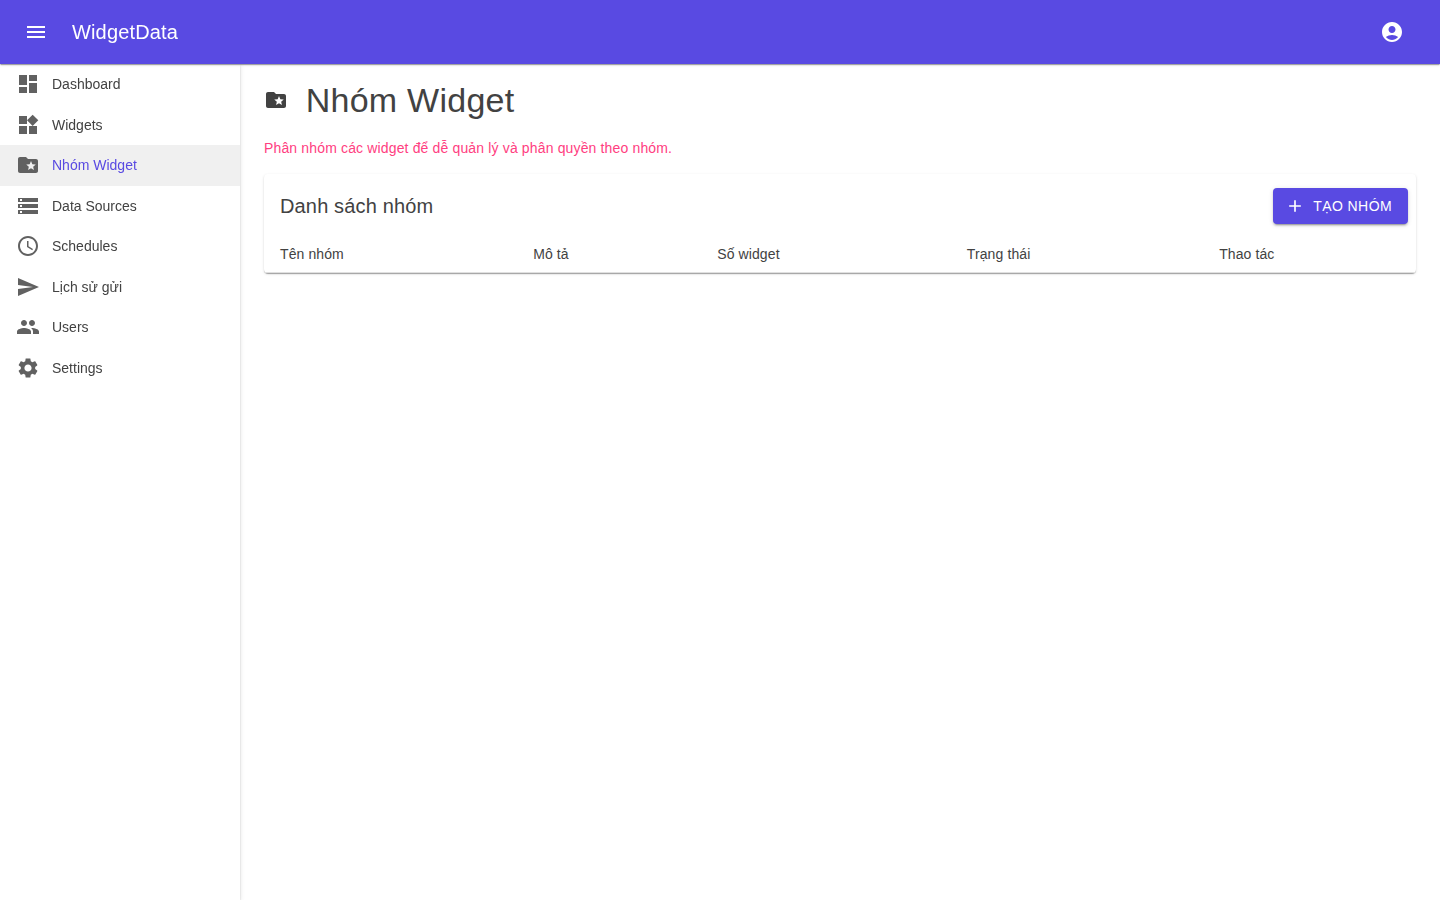
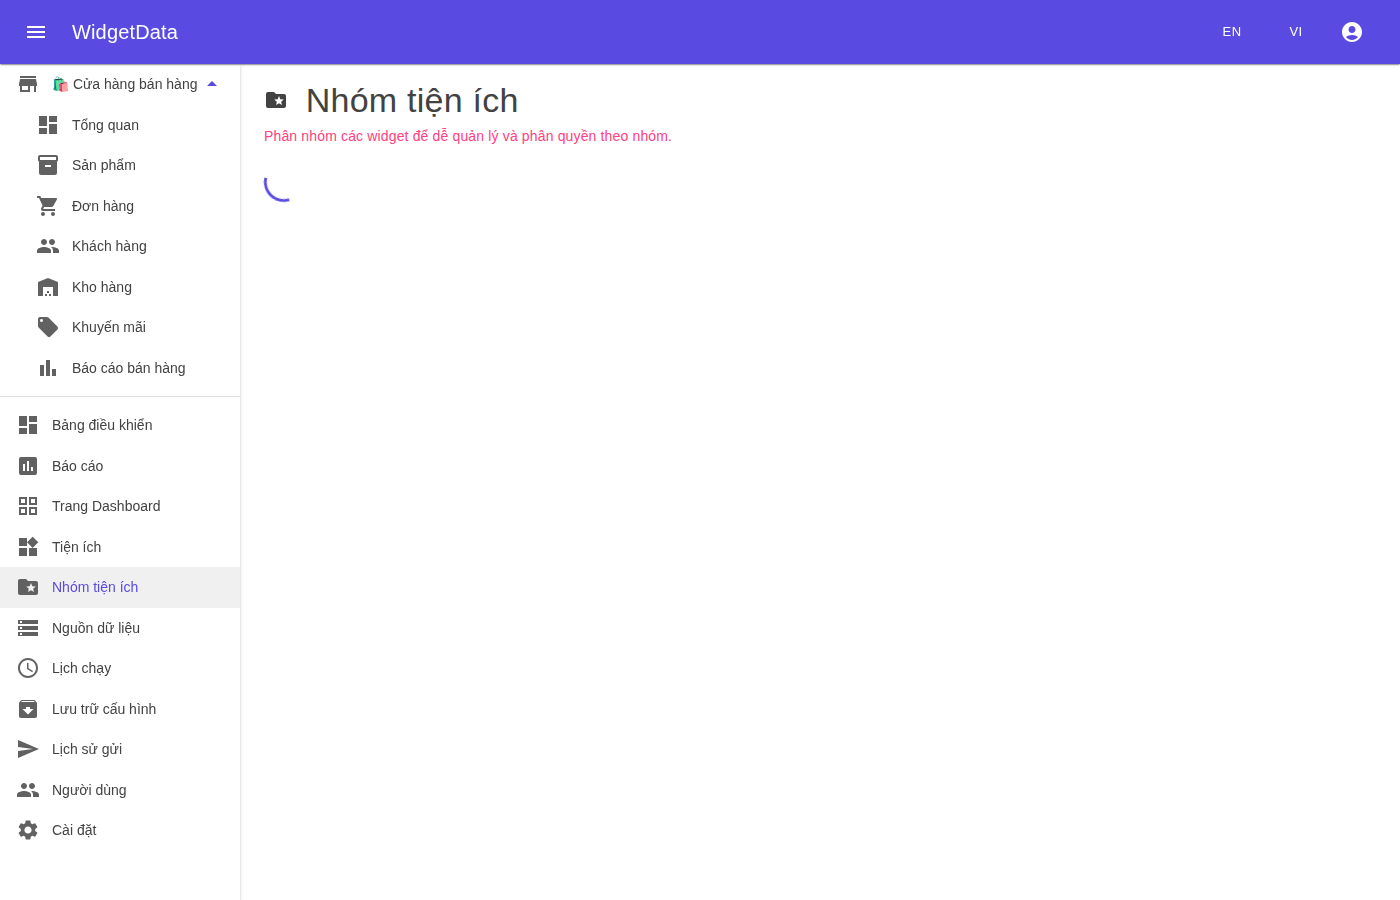
docs: add real screenshots from running WidgetData.Web app (all pages incl. Store)
Agent-Logs-Url: https://github.com/leNam199320xx/WidgetData/sessions/fcca79f5-9d61-4dab-a539-5946757ee0d2

diff --git a/doc/screens.md b/doc/screens.md
@@ -21,6 +21,14 @@ Các màn hình được capture từ demo chạy thực tế với dữ liệu 
 | Dashboard Pages | ![Dashboard Pages](screenshots/12_dashboard_pages.png) |
 | Dashboard Page Builder | ![Page Builder](screenshots/12a_page_builder.png) |
 | Widget HTML Designer | ![HTML Designer](screenshots/13_widget_html_designer.png) |
+| Config Archives | ![Config Archives](screenshots/14_config_archives.png) |
+| 🛍 Store – Tổng quan | ![Store Dashboard](screenshots/15_store_dashboard.png) |
+| 🛍 Store – Sản phẩm | ![Store Products](screenshots/16_store_products.png) |
+| 🛍 Store – Đơn hàng | ![Store Orders](screenshots/17_store_orders.png) |
+| 🛍 Store – Khách hàng | ![Store Customers](screenshots/18_store_customers.png) |
+| 🛍 Store – Kho hàng | ![Store Inventory](screenshots/19_store_inventory.png) |
+| 🛍 Store – Khuyến mãi | ![Store Promotions](screenshots/20_store_promotions.png) |
+| 🛍 Store – Báo cáo bán hàng | ![Store Sales Report](screenshots/21_store_sales_report.png) |
 
 ---
 
@@ -47,14 +55,15 @@ Các màn hình được capture từ demo chạy thực tế với dữ liệu 
 
 ## 📋 Tổng quan
 
-Widget Data có **20 màn hình chính** được tổ chức thành 6 nhóm:
+Widget Data có **27 màn hình chính** được tổ chức thành 7 nhóm:
 
 1. **Dashboard & Overview** (2 screens)
 2. **Widget Management** (5 screens – bao gồm HTML Designer)
 3. **Data Sources** (3 screens)
 4. **Scheduling & Execution** (2 screens)
-5. **Reports & Pages** (4 screens – mới)
+5. **Reports & Pages** (4 screens)
 6. **Administration** (4 screens)
+7. **🛍 Cửa hàng bán hàng** (7 screens – Tổng quan, Sản phẩm, Đơn hàng, Khách hàng, Kho hàng, Khuyến mãi, Báo cáo bán hàng)
 
 ---
 
